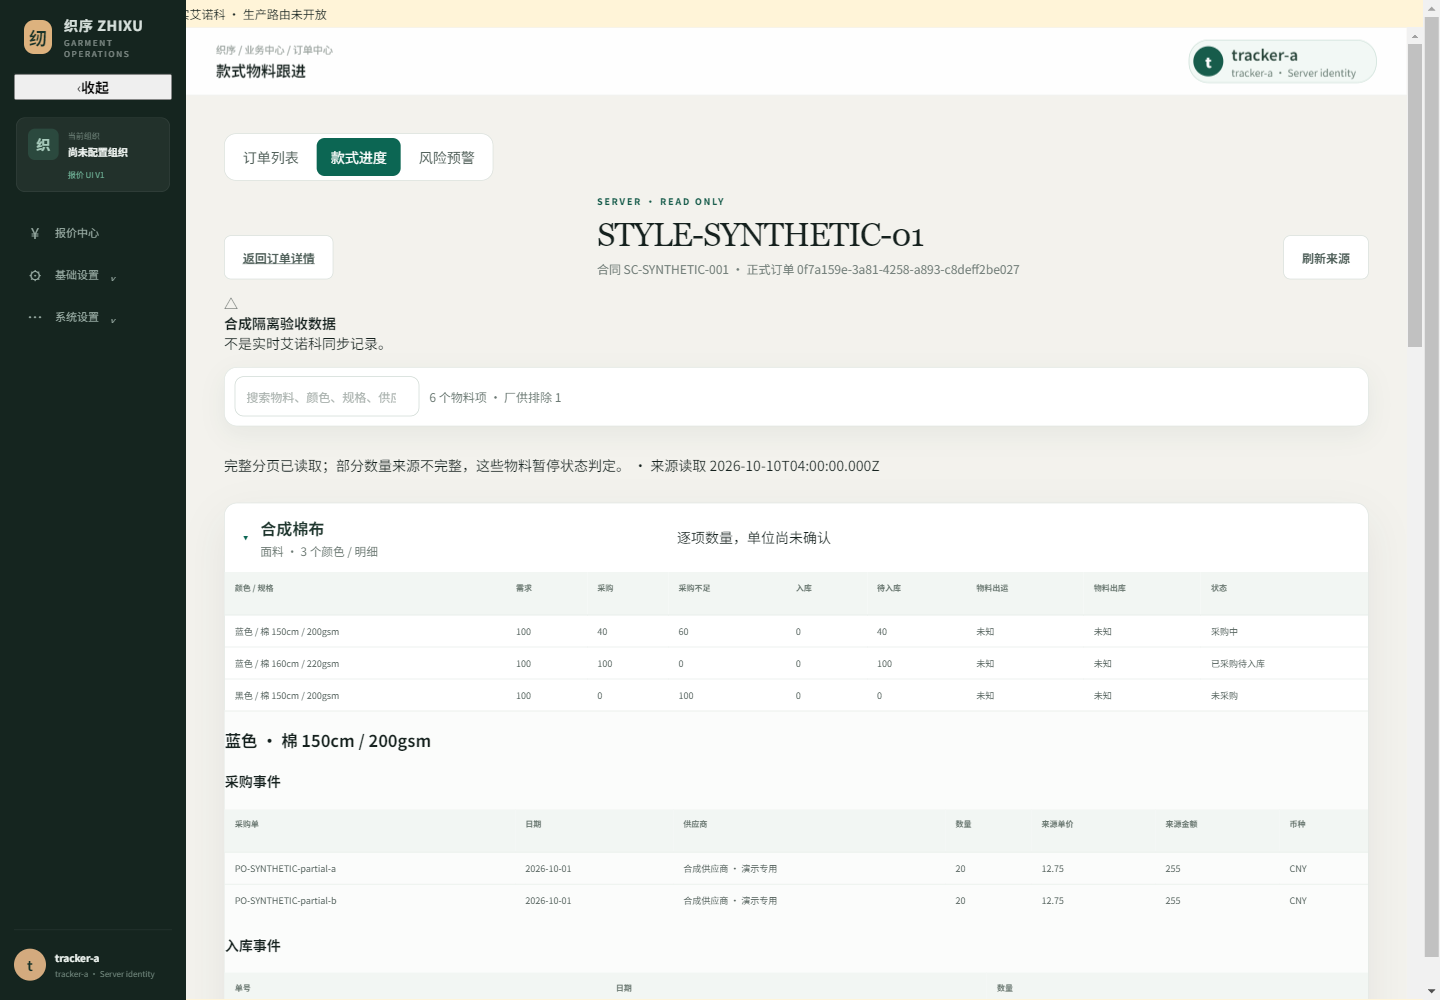
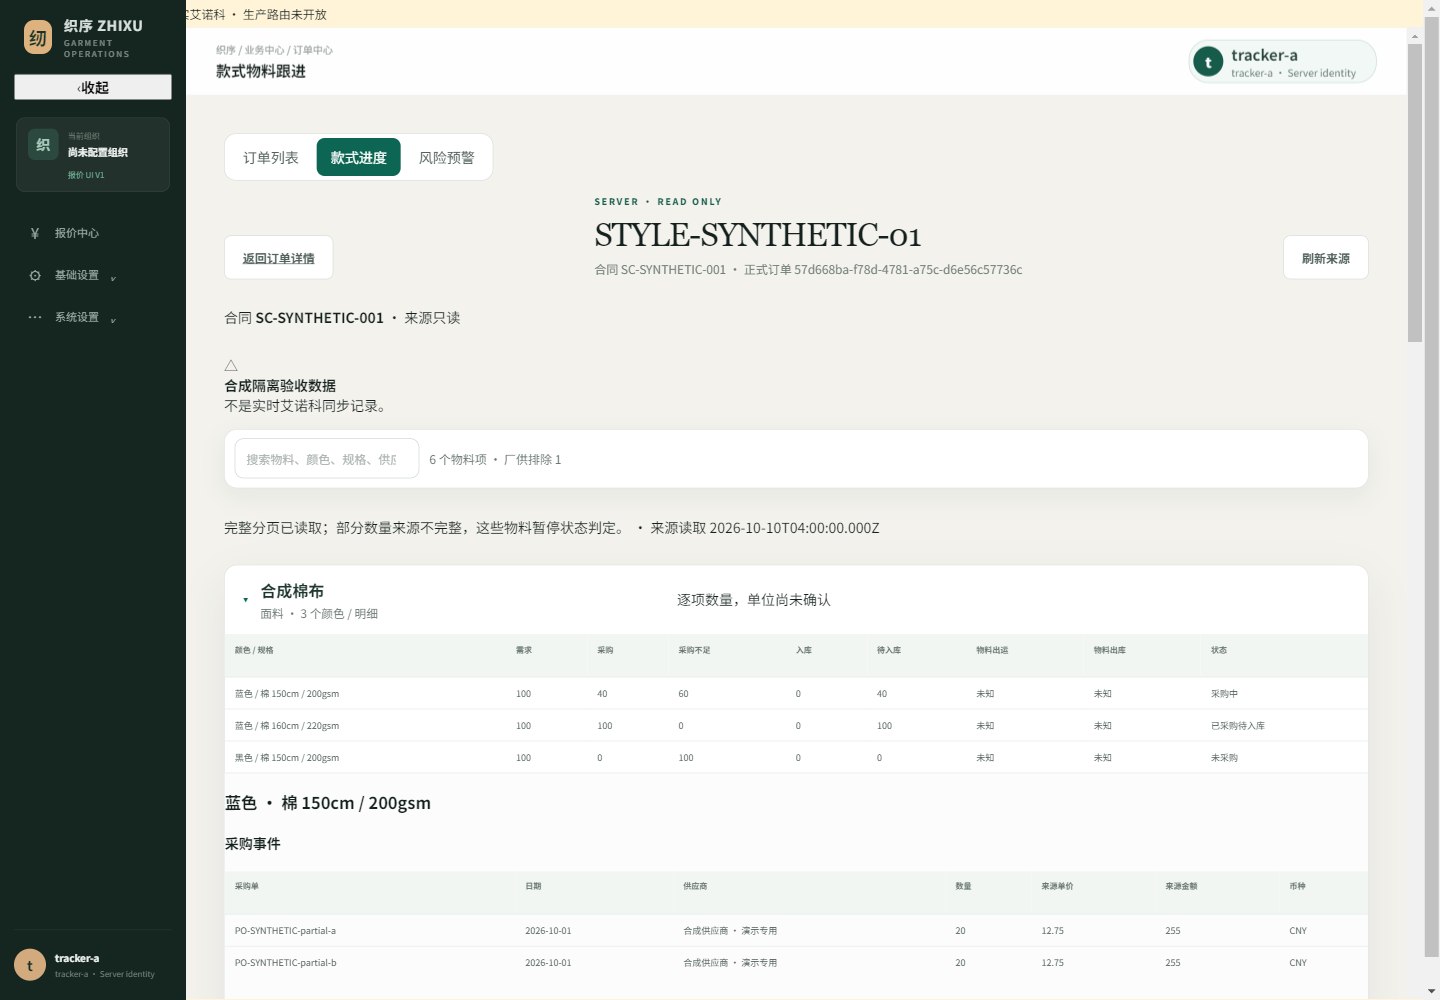
test(order): verify scoped HTTP and existing page execution loop

diff --git a/server/integration/order-material-fixture.ts b/server/integration/order-material-fixture.ts
@@ -58,9 +58,11 @@ export async function startOrderMaterialFixture() {
         for(const row of pages[0].rows) Object.assign(row.values,{cgprice:12.75,goodsamount:255,CurrencyName:'CNY',customerConfirmedPrice:'protected-commercial-sentinel'});
         return pages;
       }});
-    server=createServer(createApp({pool,allowedOrigins:['http://127.0.0.1'],security:{secureCookies:false,sessionTtlSeconds:3600},orderMaterialRead:{resolveVisibleOrder,loadSource}}));
+    const allowedOrigins=['http://127.0.0.1'];
+    server=createServer(createApp({pool,allowedOrigins,security:{secureCookies:false,sessionTtlSeconds:3600},orderMaterialRead:{resolveVisibleOrder,loadSource}}));
     await new Promise<void>(done=>server!.listen(0,'127.0.0.1',done));const address=server.address();assert.ok(address&&typeof address==='object');const base=`http://127.0.0.1:${address.port}`;
     return {pool,orders,base,containerName:postgres.containerName,
+      allowPreviewOrigin:(origin:string)=>{const address=new URL(origin);if(address.protocol!=='http:'||address.hostname!=='127.0.0.1'||!address.port||['3000','3001','3002','18443','18444'].includes(address.port))throw new Error('invalid_isolated_preview_origin');allowedOrigins.push(address.origin);},
       scenario:(next:string)=>{scenario=next;clock=Date.parse(syntheticFetchedAt);},sourceReads:()=>sourceReads,
       login:async(name:string)=> {const response=await fetch(base+'/api/v1/auth/login',{method:'POST',headers:{'Content-Type':'application/json',Origin:'http://127.0.0.1','X-Zhixu-Request':'1'},body:JSON.stringify({username:name,password:'synthetic-only'})});assert.equal(response.status,200);return response.headers.get('set-cookie')!.split(';')[0];},
       close:async()=>{await new Promise<void>(done=>server!.close(()=>done()));await pool.end();await postgres.stop();}};

diff --git a/server/integration/order-material-http.test.ts b/server/integration/order-material-http.test.ts
@@ -1,3 +1,5 @@
+import { createServer } from 'node:http';
+import { createApp } from '../app.js';
 import test from 'node:test';
 import assert from 'node:assert/strict';
 import { startOrderMaterialFixture } from './order-material-fixture.js';
@@ -5,6 +7,11 @@ test('Material HTTP real trusted session, scope, fixed Source and failure isolat
   const f=await startOrderMaterialFixture();t.after(()=>f.close());const a=await f.login('tracker-a');const b=await f.login('tracker-b');const denied=await f.login('denied');
   const path=(i=0)=>`/api/v1/sales-orders/${f.orders[i].id}/material-progress`;
   const read=async(cookie?:string,i=0,suffix='')=>fetch(f.base+path(i)+suffix,{headers:cookie?{Cookie:cookie}:{}});
+  await t.test('unconfigured production capability is disabled',async()=>{
+    const server=createServer(createApp({pool:f.pool}));await new Promise<void>(done=>server.listen(0,'127.0.0.1',done));
+    try {const address=server.address();assert.ok(address&&typeof address==='object');const response=await fetch(`http://127.0.0.1:${address.port}`+path(),{headers:{Cookie:a}});assert.equal(response.status,503);assert.equal((await response.json()).error.code,'material_read_not_connected');}
+    finally {await new Promise<void>(done=>server.close(()=>done()));}
+  });
   await t.test('authentication/permission/scope and arbitrary query rejection precede Source',async()=>{
     const before=f.sourceReads();assert.equal((await read()).status,401);assert.equal((await read(denied)).status,403);assert.equal((await read(a,1)).status,404);assert.equal((await read(a,0,'?account=admin')).status,400);assert.equal(f.sourceReads(),before);
   });

diff --git a/features/ainuoke-material-progress/integration-preview/demo.ts b/features/ainuoke-material-progress/integration-preview/demo.ts
@@ -1,0 +1,17 @@
+import assert from 'node:assert/strict';
+import {startOrderMaterialFixture} from '../../../server/integration/order-material-fixture.js';
+import {startOrderIntegrationPreview} from './server.mjs';
+// Explicit developer-only entry: never loads deployment configuration, env credentials or real providers.
+const fixture=await startOrderMaterialFixture();
+let preview: Awaited<ReturnType<typeof startOrderIntegrationPreview>>|undefined;
+try {
+  preview=await startOrderIntegrationPreview(fixture.base);const origin=new URL(preview.url).origin;fixture.allowPreviewOrigin(origin);
+  if(process.argv.includes('--verify')) {
+    const response=await fetch(origin+'/api/v1/auth/login',{method:'POST',headers:{'Content-Type':'application/json',Origin:origin,'X-Zhixu-Request':'1'},body:JSON.stringify({username:'tracker-a',password:'synthetic-only'})});
+    assert.equal(response.status,200);console.log('Manual preview trusted login proxy PASS');
+  } else {
+    console.log(`SYNTHETIC ONLY: ${preview.url}`);
+    console.log('Use a separate private browser profile. Synthetic login: tracker-a / synthetic-only. Ctrl+C cleans this disposable environment.');
+    await new Promise<void>(done=>{process.once('SIGINT',()=>done());process.once('SIGTERM',()=>done());});
+  }
+} finally {await preview?.close();await fixture.close();console.log('Manual preview cleanup PASS (own Vite/API/disposable PG only)');}

diff --git a/features/style-progress/components/style-progress-server-page.tsx b/features/style-progress/components/style-progress-server-page.tsx
@@ -9,6 +9,7 @@ import { OrderCenterNavigation } from './order-center-navigation';
 function MaterialBody({id}:{id:string}) {
   const state=useOrderMaterial(id);const route=orderMaterialNavigation(id)!;
   return <><PageHeader eyebrow="SERVER · READ ONLY" title={state.model?.progress.order.styleNo||'款式物料跟进'} description={`合同 ${state.model?.progress.order.salesContractNo??'—'} · 正式订单 ${id}`} back={<a className="qc-button qc-button-secondary" href={route.returnHref}>返回订单详情</a>} actions={<button className="qc-button qc-button-secondary" onClick={state.reload}>刷新来源</button>}/>
+    <p data-server-sales-order-id={id}>合同 <strong>{state.model?.progress.order.salesContractNo??'—'}</strong> · 来源只读</p>
     {state.model?.provenance==='synthetic'&&<AlertBanner tone="warning" title="合成隔离验收数据">不是实时艾诺科同步记录。</AlertBanner>}
     {state.loading?<p>读取可信物料来源…</p>:state.error?<p role="alert">{state.error}</p>:state.model&&<ReadOnlyMaterialControlTower view={state.model.progress}/>}</>;
 }

diff --git a/server/integration/confirmed-commercial-terms.integration.test.ts b/server/integration/confirmed-commercial-terms.integration.test.ts
@@ -127,6 +127,7 @@ test("ConfirmedCommercialTerms uses disposable PostgreSQL and one shared current
     "0008_quote_attachments.sql",
     "0009_sales_order_delivery_plans.sql",
     "0010_quote_creation_receipts.sql",
+    "0011_quote_creation_defaults.sql",
   ]);
   const rerun = await runMigrations(pool, resolve("database/migrations"));
   assert.deepEqual(rerun.applied, []);

diff --git a/docs/tasks/active/order-material-night-integration.md b/docs/tasks/active/order-material-night-integration.md
@@ -39,3 +39,26 @@ Control Tower shares extracted existing card/table display with Browser mode; Ca
 Isolated Vite adapter mounts actual list/detail/Control Tower components (not old standalone preview), uses dynamic loopback API, fresh private Chromium and synthetic session users. 1440/1280/390 UI5/5 PASS,37 assertions; shared layout/green sidebar/card density retained. Six screenshots in evidence/order-material-night. Search/refresh/return, color details, no CCT/Quote API, no Browser business writes, no external origins, zero root horizontal overflow PASS. Table overflow stays inside its scroll container. All browser/profile/API/Vite/disposable PG cleaned.
 
 Initial browser isolation assertion matched source-module URLs containing confirmed-commercial-terms; fixed to classify only actual /api/ paths, retaining strict no-sensitive-API assertion. JSX review found the commercial condition also wrapped colors; corrected and added actual three-width color assertion. Typecheck/full npm757/757/Server+frontend42 routes PASS. Full lint initially had only test ternary warning; targeted final touched-code lint PASS after replacing it with explicit if/else. No real business runtime touched.
+
+## Gate 4 — final isolated acceptance
+
+- Final focused Source/Gate1/policy:78/78 PASS,0 skipped (Adapter29 + Gate1/old projection47 + policy2).
+- Final real trusted-session HTTP / CCT regressions / known-exposure audit:19/19 PASS,0 skipped (Material11, CCT7, exposure audit1). Audit PASS is still SECURITY PENDING, not a repaired legacy API.
+- Actual Chromium components:7/7 PASS,43 assertions at1440/1280/390. Added real synthetic session switch A→B→A, unauthorized B rejection with no cached material, unconnected UI and DOM summary/detail item-count parity. First added switch assertion relied on PageHeader description, which is hidden on narrow screens; now Source contract is explicitly visible in a compact line, and tests wait for target BillNo+rows. Cookies restore in finally. No security assertion skipped/weakened.
+- Full npm757/757,0 skipped; final typecheck/lint0 warnings/Server build/frontend42 routes/diff-check PASS. Server and frontend builds serial. Repeated only for subsequent code fixes/integration assertions.
+- Existing CCT test inherited main's expected migration list ending0010 while actual ledger contains0011. Added exact0011 filename to the expected array; no SQL/migration bytes changed. CAS/shared current/currency/history/audit rollback remain tested.
+- Developer manual preview `npx tsx features/ainuoke-material-progress/integration-preview/demo.ts` uses this same disposable fixture/API/actual components. `--verify` smoke passed real login proxy and cleanup. Fixture allows only explicitly registered dynamic127.0.0.1 origins, rejects3000/3001/3002/18443/18444. Synthetic users only; no deployment/env/credentials loaded.
+- All private browser profiles, loopback API/Vite servers and own random PostgreSQL16 containers cleaned. Final `docker ps --filter name=zhixu-pg-it` empty. Only temporary DBs received repository migrations; no real business DB, Preview, COS or original Browser data touched.
+
+### Commercial path matrix
+
+| Path | Evidence / remaining boundary |
+| --- | --- |
+| Order/Quote CCT GET | Actual ordinary view-only session returns sensitive current prices; remains unpatched pending exact independent policy |
+| Quote aggregate detail | Actual quote.view actor receives internal labor-cost sentinel without quote.cost.view; existing estimate filtering does not cover it |
+| Quote list/internal summary | Existing projections/guards separately mask or require cost permission; no generalization to aggregate detail |
+| Customer Excel and ZIP | Code requires quote.view+quote.export+quote.cost.view; current shared CCT overlay is preserved, future independent sale/labor export rules still require policy review |
+| Client memory/cache | Server clients use no-store but that does not redact response or React memory; existing unsafe read paths remain a risk. New Material client uses no-store/abort/scope check, only safe Material DTO |
+| Execution-only detail / read Control Tower | Actual browser makes no CCT/Quote request, no Browser business storage writes; server response excludes protected commercial fields; default-denied preparatory CCT projection never becomes part of Material DTO |
+
+Future color-level CNY sale price is not inferred from the existing scalar CCT. No new field/schema/key/default role policy is selected. Synthetic account switch proves injected scope/session isolation, not real personal Ainuoke binding.

diff --git a/docs/tasks/active/evidence/order-material-night/README.md b/docs/tasks/active/evidence/order-material-night/README.md
@@ -1,0 +1,11 @@
+# 合成正式组件验收证据（2026-10-11）
+
+Actual ServerOrderCenterPage → ServerSalesOrderDetailPage executionOnly → shared Control Tower read display. 私有 Chromium + 动态 loopback API + disposable PG16；synthetic users/orders/Source only。7/7、43 assertions PASS；不是生产开放或真实艾诺科同步。详细范围：[任务报告](../../order-material-night-integration.md)。
+
+| 宽度 | 订单详情 | 物料及展开事件 |
+| --- | --- | --- |
+| 1440 | [截图](order-1440.png) | [截图](material-1440.png) |
+| 1280 | [截图](order-1280.png) | [截图](material-1280.png) |
+| 390 | [截图](order-390.png) | [截图](material-390.png) |
+
+横向表格在卡片内滚动，document width不溢出。合同身份窄屏可见，采购单价/金额来自 Source，不推算或换汇；单位未确认，不混加物料数量。商业字段安全Gate与真实账号/团队范围配置PENDING。
